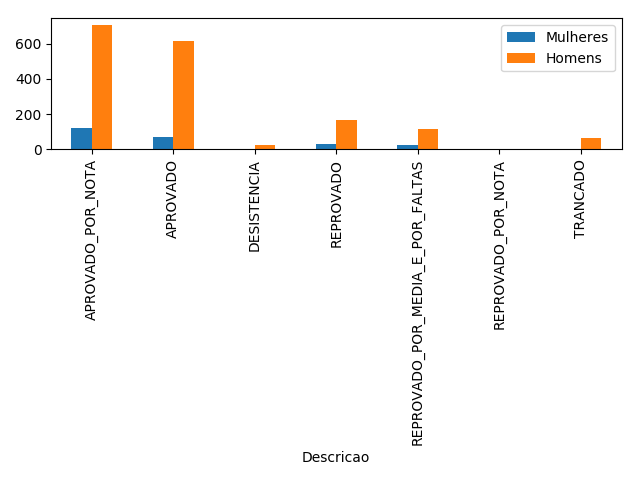
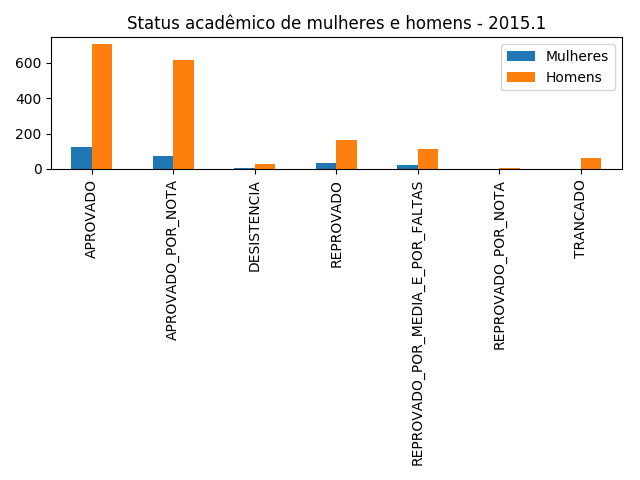
Atualiza plots

diff --git a/results.py b/results.py
@@ -54,11 +54,10 @@ def box_plot(df1, df2, column, semestre):
 
 
 def bar_plot(itens, semestre):
-	df = pd.DataFrame(itens, columns=['Descricao', 'Mulheres', 'Homens'])
+	df = pd.DataFrame(itens, columns=['Mulheres', 'Homens'])
 	plt.figure()
-	plt.xlabel('Status acadêmico')
-	plt.ylabel('Quantidade')
-	df.plot.bar(x='Descricao')
+	df.plot.bar()
+	plt.title("Status acadêmico de mulheres e homens - " + semestre[:4]+"."+semestre[4])
 	plt.tight_layout() 
 	plt.savefig("data/resultados/plots/status"+semestre+".png")
 	plt.close()
@@ -119,8 +118,7 @@ for i, dataframe in enumerate(dataframes_completos):
 
 	status_mulheres = mulheres_df.groupby(["descricao"])['sexo'].count()
 	status_homens = homens_df.groupby(["descricao"])['sexo'].count()
-
 	lista_descricao = dataframe['descricao'].unique()
-	raw_data = {'Descricao' : lista_descricao, 'Mulheres' : status_mulheres, 'Homens' : status_homens}
+	raw_data = {'Mulheres' : status_mulheres, 'Homens' : status_homens}
 
 	bar_plot(raw_data, semestres[i])
